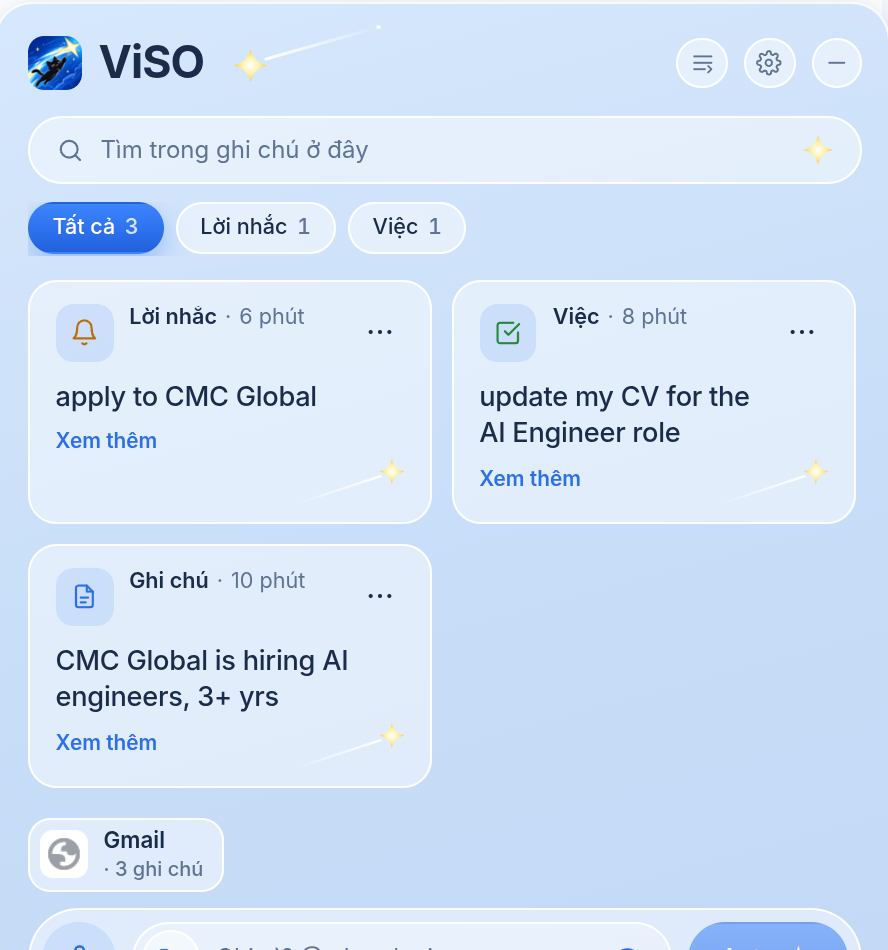
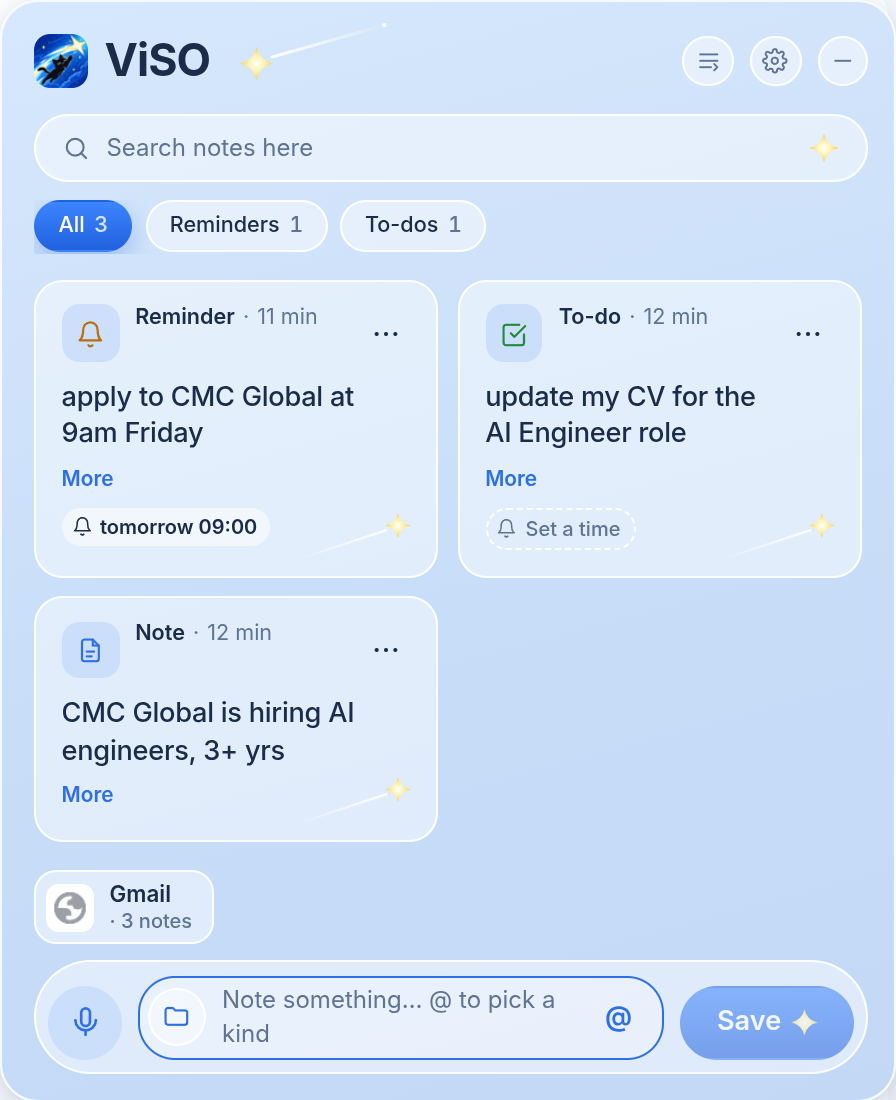
site: English screenshots, shorter step copy

diff --git a/index.html b/index.html
@@ -6,7 +6,7 @@
 <meta name="description" content="ViSO — the instant, on-device assistant layer for your desktop. Hit Ctrl + Space, say it, and it's filed as a note, task or reminder in under a second. Alpha early access.">
 <meta property="og:title" content="ViSO — Stop breaking your flow just to write things down.">
 <meta property="og:description" content="Ctrl + Space, say it, filed in under a second. 100% on-device. Windows, macOS & Chrome. Alpha early access.">
-<meta property="og:image" content="assets/shot-desktop-panel.png">
+<meta property="og:image" content="assets/shot-extension-hud.png">
 <link rel="icon" href="assets/logo.png">
 <title>ViSO — Alpha early access</title>
 <link rel="preconnect" href="https://fonts.googleapis.com">
@@ -455,7 +455,7 @@
         <div class="ok" data-i="sc.ok">✓ Saved · reminds you Friday, 9:00</div>
       </div>
       <div class="hud"><img src="assets/shot-extension-hud.png" alt="ViSO panel inside a Gmail thread: a reminder, a to-do and a note about the email"></div>
-      <div class="panel"><img src="assets/shot-desktop-panel.png" alt="ViSO desktop panel: a column of note cards, a search bar and a composer"></div>
+      <div class="panel"><img src="assets/shot-extension-todos.png" alt="ViSO panel on a web page, showing the to-dos"></div>
       <span class="tab" aria-hidden="true"></span>
       <img class="cat" src="assets/cat-cloud.png" alt="">
     </div>
@@ -472,20 +472,18 @@
         <div class="tile-card">
           <div class="art">
             <div class="shot shot--hud"><img src="assets/shot-extension-hud.png" alt="ViSO panel inside a web page"></div>
-            <div class="note note--l" data-i="f1.note"><div class="fh"><span class="tick">✓</span> Đã lưu · YouTube</div><b>video này giải thích RAG khá dễ hiểu</b></div>
+            <div class="note note--l" data-i="f1.note"><div class="fh"><span class="tick">✓</span> Saved · YouTube</div><b>this video explains RAG really well</b></div>
           </div>
           <h3 data-i="f1.h3">Notes</h3>
           <p data-i="f1.p">Save anything worth keeping</p>
-          <div class="say" data-i="f1.say">nói <b>"ghi chú video này giải thích RAG khá dễ hiểu"</b></div>
         </div>
         <div class="tile-card">
           <div class="art">
-            <div class="shot shot--panel"><img src="assets/shot-desktop-panel.png" alt="ViSO desktop panel"></div>
-            <div class="note note--r" data-i="f2.note"><div class="fh"><span class="tick">✓</span> Việc · 18/43 xong</div><b>nộp báo cáo trước thứ Tư</b></div>
+            <div class="shot shot--hud"><img src="assets/shot-extension-todos.png" alt="ViSO panel showing the to-dos"></div>
+            <div class="note note--r" data-i="f2.note"><div class="fh"><span class="tick">✓</span> To-dos · 18/43 done</div><b>hand in the report before Wednesday</b></div>
           </div>
           <h3 data-i="f2.h3">To-dos</h3>
           <p data-i="f2.p">Turn “I need to do this” into a to-do</p>
-          <div class="say" data-i="f2.say">nói <b>"việc cần làm nộp báo cáo trước thứ Tư"</b></div>
         </div>
         <div class="tile-card">
           <div class="art">
@@ -497,7 +495,6 @@
           </div>
           <h3 data-i="f3.h3">Reminders</h3>
           <p data-i="f3.p">Set a reminder without setting one up</p>
-          <div class="say" data-i="f3.say">nói <b>"nhắc tôi 3 giờ chiều gọi anh Đông"</b></div>
         </div>
         <div class="tile-card soon">
           <div class="art"><span class="soon-star" aria-hidden="true"><svg viewBox="0 0 24 24"><defs><radialGradient id="ss"><stop offset="0" stop-color="#fff"/><stop offset=".45" stop-color="#fff3b0"/><stop offset="1" stop-color="#f2cf5b"/></radialGradient></defs><path fill="url(#ss)" d="M12 1c.6 5.6 3.4 8.4 9 9-5.6.6-8.4 3.4-9 9-.6-5.6-3.4-8.4-9-9 5.6-.6 8.4-3.4 9-9z"/></svg></span></div>
@@ -514,7 +511,7 @@
       <div class="how-intro">
         <div class="eyebrow" data-i="how.eyebrow">How it works</div>
         <h2 data-i="how.h2">Get started in 3 simple steps.</h2>
-        <p data-i="how.p">Think it. Say it. Done! ViSO does the rest and takes you back to where the thought came from.</p>
+        <p data-i="how.p">Think it. Say it. Done. ViSO takes you back to where the thought began.</p>
       </div>
       <div class="steps">
         <div class="step">
@@ -532,7 +529,7 @@
             </div>
           </div>
           <h3 data-i="s1.h3">Press a simple hotkey, anywhere</h3>
-          <p data-i="s1.p">Whether you're reading email, writing, researching, or in a meeting, press <kbd>Ctrl</kbd> + <kbd>Space</kbd> when you need it. ViSO stays quietly at the edge of your screen.</kbd>+<kbd>Space</kbd>, nói, xong. Không mở app, không đổi cửa sổ. ViSO chỉ là một vạch nhỏ ở mép màn hình cho tới khi bạn gọi.</p>
+          <p data-i="s1.p">Reading email, writing, or in a meeting — press <kbd>Ctrl</kbd> + <kbd>Space</kbd>. ViSO waits quietly at the edge of your screen.</kbd> + <kbd>Space</kbd> when you need it. ViSO stays quietly at the edge of your screen.</kbd>+<kbd>Space</kbd>, nói, xong. Không mở app, không đổi cửa sổ. ViSO chỉ là một vạch nhỏ ở mép màn hình cho tới khi bạn gọi.</p>
         </div>
         <div class="step">
           <span class="num">2</span>
@@ -543,7 +540,7 @@
                 <span class="real__say" data-i="s2.say">"remind me to apply to CMC Global at 9am Friday"</span>
               </div>
               <span class="real__arrow" aria-hidden="true">→</span>
-              <img class="real__card real__card--pop" src="assets/guide/card-reminder.png" alt="The reminder card ViSO saved: apply to CMC Global" width="404" height="244">
+              <img class="real__card real__card--pop" src="assets/guide/card-en-reminder.png" alt="The reminder card ViSO saved: apply to CMC Global at 9am Friday" width="404" height="296">
               <span class="lock" data-i="s2.lock"><svg width="12" height="12" viewBox="0 0 24 24" fill="none" stroke="currentColor" stroke-width="2"><rect x="4" y="11" width="16" height="10" rx="2"/><path d="M8 11V7a4 4 0 0 1 8 0v4"/></svg>không gì rời khỏi máy bạn</span>
             </div>
           </div>
@@ -555,7 +552,7 @@
           <div class="art art--open">
             <div class="real real--3">
               <div class="real__click">
-                <img class="real__card" src="assets/guide/card-gmail.png" alt="A note card in ViSO, filed from a Gmail thread" width="404" height="244">
+                <img class="real__card" src="assets/guide/card-en-note.png" alt="A note card in ViSO, filed from a Gmail thread" width="404" height="244">
                 <svg class="click" viewBox="0 0 24 24" aria-hidden="true"><path d="M5 3l14 8-6 2-3 6z" fill="#fff" stroke="#0b0d14" stroke-width="1.6" stroke-linejoin="round"/></svg>
               </div>
               <div class="opens" aria-hidden="true">
@@ -565,7 +562,7 @@
             </div>
           </div>
           <h3 data-i="s3.h3">Get back to where you were</h3>
-          <p data-i="s3.p">Click the note and ViSO takes you back to the exact place, whether it's an email, document, or web page. You don't have to remember where you saw it.</b> là quay về đúng chỗ: tab đang mở thì nhảy sang, chưa mở thì mở lên.</p>
+          <p data-i="s3.p">Click a note and ViSO takes you back to the exact email, document, or page. No need to remember where you saw it.</b> là quay về đúng chỗ: tab đang mở thì nhảy sang, chưa mở thì mở lên.</p>
         </div>
       </div>
     </div>

diff --git a/assets/i18n.js b/assets/i18n.js
@@ -32,36 +32,33 @@ var I18N = { vi: {
  "f.eyebrow": "Cứ làm việc. ViSO ghi nhớ giúp.",
  "f.h2": "Nói một lần. ViSO biết cần làm gì.",
  "f.p": "Không phải lúc nào cũng cần thêm một app.<br>Có lúc bạn chỉ cần lưu lại gì đó trước khi quên.",
- "f1.note": "<div class=\"fh\"><span class=\"tick\">✓</span> Đã lưu · YouTube</div><b>video này giải thích RAG khá dễ hiểu</b>",
+ "f1.note": "<div class=\"fh\"><span class=\"tick\">✓</span> Saved · YouTube</div><b>this video explains RAG really well</b>",
  "f1.h3": "Ghi chú",
  "f1.p": "Lưu bất cứ gì đáng giữ",
- "f1.say": "nói <b>\"ghi chú video này giải thích RAG khá dễ hiểu\"</b>",
- "f2.note": "<div class=\"fh\"><span class=\"tick\">✓</span> Việc · 18/43 xong</div><b>nộp báo cáo trước thứ Tư</b>",
+ "f2.note": "<div class=\"fh\"><span class=\"tick\">✓</span> To-dos · 18/43 done</div><b>hand in the report before Wednesday</b>",
  "f2.h3": "Việc cần làm",
  "f2.p": "Biến “phải làm cái này” thành việc cần làm",
- "f2.say": "nói <b>\"việc cần làm nộp báo cáo trước thứ Tư\"</b>",
  "f3.fh": "<span class=\"tile\" style=\"background:#0068FF;color:#fff\">Z</span><b>Zalo</b> · Mỗi ngày · 15:00",
  "f3.ft": "gọi lại khách",
  "f3.fm": "<span class=\"chip\">🔔 Lời nhắc</span><span>Máy tự báo đúng giờ</span>",
  "f3.h3": "Lời nhắc",
  "f3.p": "Có lời nhắc mà không phải cài đặt gì",
- "f3.say": "nói <b>\"nhắc tôi 3 giờ chiều gọi anh Đông\"</b>",
  "f4.h3": "Sắp có thêm",
  "f4.p": "",
  "f4.say": "sắp có",
  "how.eyebrow": "Cách dùng",
  "how.h2": "Bắt đầu trong 3 bước.",
- "how.p": "Nghĩ. Nói. Xong! Phần còn lại ViSO lo, và đưa bạn về đúng chỗ ý nghĩ nảy ra.",
+ "how.p": "Nghĩ. Nói. Xong. ViSO đưa bạn về đúng chỗ ý nghĩ nảy ra.",
  "s1.lbl": "<b>vạch ViSO</b>nằm im ở mép,<br>rê chuột là hiện",
  "s1.h3": "Bấm một phím tắt, ở đâu cũng được",
- "s1.p": "Đang đọc mail, đang viết, đang tra cứu hay đang họp — cần là bấm <kbd>Ctrl</kbd> + <kbd>Space</kbd>. ViSO nằm im ở mép màn hình cho tới lúc đó.",
+ "s1.p": "Đang đọc mail, đang viết hay đang họp — bấm <kbd>Ctrl</kbd> + <kbd>Space</kbd>. ViSO nằm im ở mép màn hình chờ bạn.",
  "s2.lock": "<svg width=\"12\" height=\"12\" viewBox=\"0 0 24 24\" fill=\"none\" stroke=\"currentColor\" stroke-width=\"2\"><rect x=\"4\" y=\"11\" width=\"16\" height=\"10\" rx=\"2\"/><path d=\"M8 11V7a4 4 0 0 1 8 0v4\"/></svg>không gì rời khỏi máy bạn",
  "s2.h3": "Cứ nói thôi",
  "s2.p": "ViSO hiểu ý bạn, biến thành ghi chú, việc cần làm hay lời nhắc, và lưu lại trong chưa tới một giây.",
  "s3.tabs": "<span>Docs</span><span class=\"on\"><i></i>Gmail</span><span>YouTube</span>",
  "s3.tabsnote": "↑ về đúng thư đó — tab đang mở thì nhảy sang, chưa mở thì mở lên",
  "s3.h3": "Về đúng chỗ cũ",
- "s3.p": "Bấm vào ghi chú, ViSO đưa bạn về đúng chỗ — dù là email, tài liệu hay trang web. Không cần nhớ đã thấy nó ở đâu.",
+ "s3.p": "Bấm vào ghi chú, ViSO đưa bạn về đúng email, tài liệu hay trang đó. Không cần nhớ đã thấy ở đâu.",
  "faq.eyebrow": "Hỏi đáp",
  "faq.h2": "Câu hỏi thường gặp",
  "q1": "ViSO có gửi âm thanh hay dữ liệu của tôi lên mạng không?<span class=\"plus\"></span>",
@@ -229,33 +226,30 @@ var I18N = { vi: {
  "f1.note": "<div class=\"fh\"><span class=\"tick\">✓</span> Saved · YouTube</div><b>this video explains RAG really well</b>",
  "f1.h3": "Notes",
  "f1.p": "Save anything worth keeping",
- "f1.say": "say <b>\"note: this video explains RAG really well\"</b>",
  "f2.note": "<div class=\"fh\"><span class=\"tick\">✓</span> To-dos · 18/43 done</div><b>hand in the report before Wednesday</b>",
  "f2.h3": "To-dos",
  "f2.p": "Turn “I need to do this” into a to-do",
- "f2.say": "say <b>\"to-do: hand in the report before Wednesday\"</b>",
  "f3.fh": "<span class=\"tile\" style=\"background:#0068FF;color:#fff\">Z</span><b>Zalo</b> · Every day · 15:00",
  "f3.ft": "call the customer back",
  "f3.fm": "<span class=\"chip\">🔔 Reminder</span><span>Your computer pings you on time</span>",
  "f3.h3": "Reminders",
  "f3.p": "Set a reminder without setting one up",
- "f3.say": "say <b>\"remind me at 3pm to call Đông\"</b>",
  "f4.h3": "More on the way",
  "f4.p": "",
  "f4.say": "coming soon",
  "how.eyebrow": "How it works",
  "how.h2": "Get started in 3 simple steps.",
- "how.p": "Think it. Say it. Done! ViSO does the rest and takes you back to where the thought came from.",
+ "how.p": "Think it. Say it. Done. ViSO takes you back to where the thought began.",
  "s1.lbl": "<b>the ViSO mark</b>rests at the edge,<br>shows on hover",
  "s1.h3": "Press a simple hotkey, anywhere",
- "s1.p": "Whether you're reading email, writing, researching, or in a meeting, press <kbd>Ctrl</kbd> + <kbd>Space</kbd> when you need it. ViSO stays quietly at the edge of your screen.",
+ "s1.p": "Reading email, writing, or in a meeting — press <kbd>Ctrl</kbd> + <kbd>Space</kbd>. ViSO waits quietly at the edge of your screen.",
  "s2.lock": "<svg width=\"12\" height=\"12\" viewBox=\"0 0 24 24\" fill=\"none\" stroke=\"currentColor\" stroke-width=\"2\"><rect x=\"4\" y=\"11\" width=\"16\" height=\"10\" rx=\"2\"/><path d=\"M8 11V7a4 4 0 0 1 8 0v4\"/></svg>nothing leaves your computer",
  "s2.h3": "Just say it",
  "s2.p": "ViSO understands what you mean, turns it into a note, to-do, or reminder, and saves it in under a second.",
  "s3.tabs": "<span>Docs</span><span class=\"on\"><i></i>Gmail</span><span>YouTube</span>",
  "s3.tabsnote": "↑ the exact email — switches to the tab if it's open, opens it if not",
  "s3.h3": "Get back to where you were",
- "s3.p": "Click the note and ViSO takes you back to the exact place, whether it's an email, document, or web page. You don't have to remember where you saw it.",
+ "s3.p": "Click a note and ViSO takes you back to the exact email, document, or page. No need to remember where you saw it.",
  "faq.eyebrow": "FAQ",
  "faq.h2": "Questions, answered",
  "q1": "Does ViSO send my voice or my data to the cloud?<span class=\"plus\"></span>",
